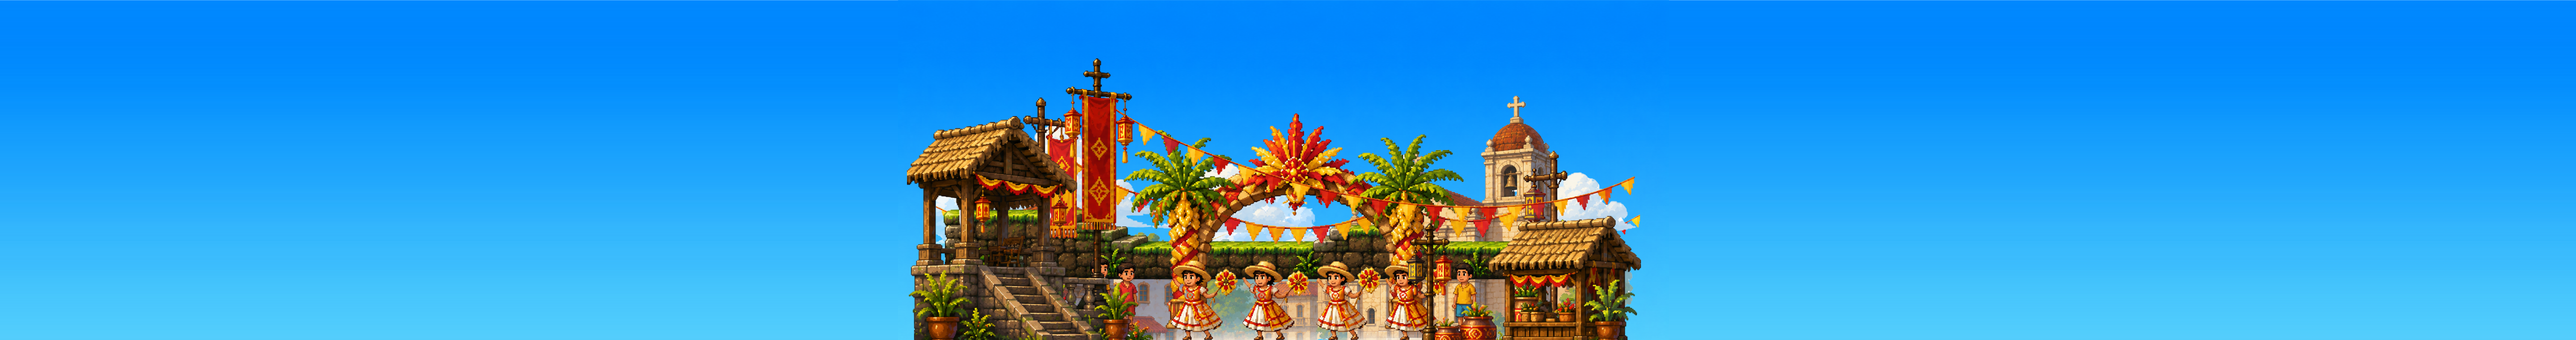
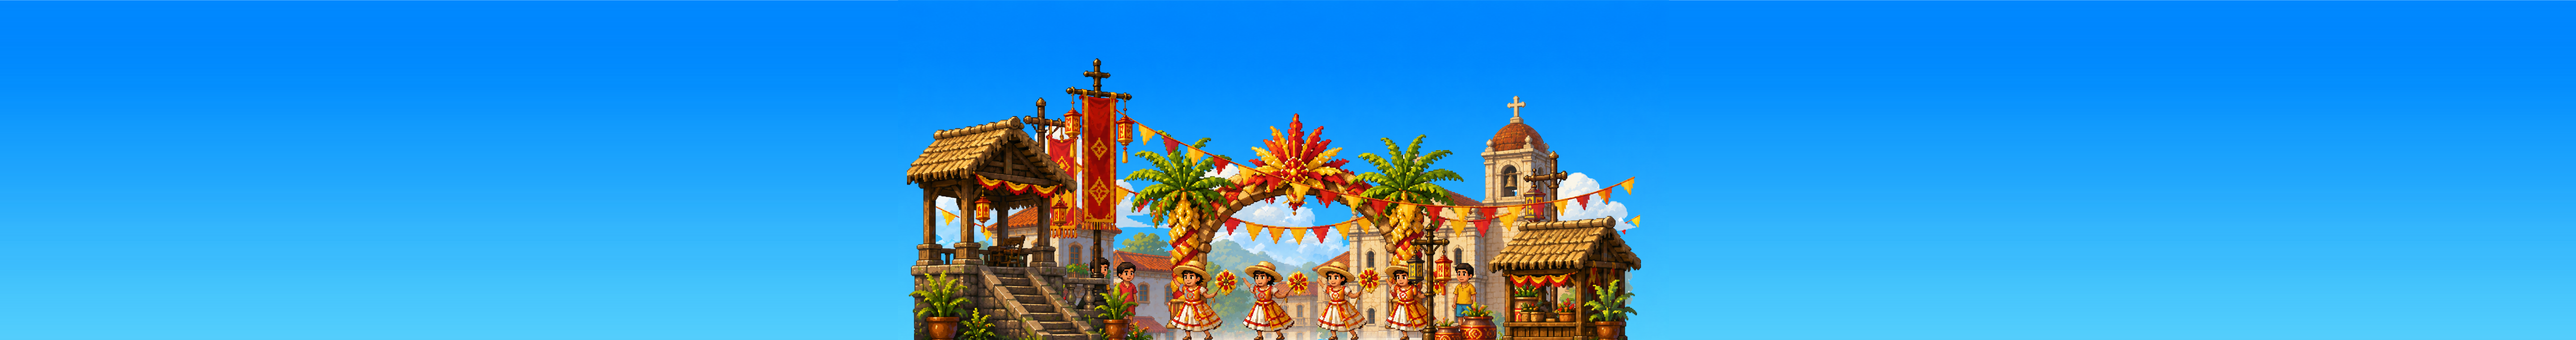
Stop compositing ground.png, which was never this level's ground
"Why is there a dirt platform at the back" -- because there is, and it is called
`ground.png`. Opened on its own it is not ground at all: a mossy rubble terrace with a
grass top and a flight of steps, plate rows 474 to 680. Every one of those rows is ABOVE
the walk line at 816, so in the composite the thing runs across the picture at roughly
the apo's head height. It is the artist's own side-scrolling platform, drawn for a game
where the player walks along the TOP of it -- which is a perfectly good plate and simply
not the one this level stands on. Cut at the dancers' feet, all it can be is a slab of
stone with grass on it hanging in mid-air behind everybody.

Dropped from the layer list, `mg_church` shows through: the church and its belfry, the
colonial houses, the hills and the trees. Its own bottom edge is row 839, BELOW the walk
line, so there is no hole to fill -- ninety-two per cent of every row in the band is
covered by the town, the people and the huts, and the sky that shows between them is sky
that ought to show between buildings.

The four door tones were re-sampled against the new plate, since what stands behind each
door changed when the terrace left.

AND THE REASON THIS TOOK A SECOND LOOK: a `--script` run does not reimport a texture
whose source changed. `.godot/imported/*.ctex` is used exactly as it stands, so three
renders in a row were read as evidence about a backdrop that had already been rebuilt
[…]

Changed region(s): [[0.3438, 0.6045, 0.5938, 0.816]]

diff --git a/tools/build_plaza.py b/tools/build_plaza.py
@@ -43,7 +43,22 @@ ROOT = Path(__file__).resolve().parent.parent
 SRC = ROOT / "game" / "assets" / "Level2"
 
 # Back to front. The order they compose in.
-LAYERS = ["bg_sky", "bg_clouds", "mg_church", "ground", "mg_people", "fg_huts"]
+#
+# ⚠ `ground` IS DELIBERATELY NOT IN THIS LIST, and it is not an oversight.
+#
+# Open `ground.png` on its own and it is not ground at all: it is a mossy rubble terrace with
+# a grass top and a flight of steps, rows 474..680 of the plate -- ABOVE the walk line, which
+# means that in the composite it runs across the picture at roughly the apo's head height.
+# It is the artist's own side-scrolling platform, drawn for a game where the player walks
+# along the TOP of it. Cut at the dancers' feet, as this level is, it is a band of stone with
+# grass on it hanging in mid-air behind everybody -- "why is there a dirt platform at the
+# back", and the answer is that it is a platform, just not this level's.
+#
+# Dropped, `mg_church` shows through: the church, the belfry, the colonial houses, the hills
+# and the trees, whose own bottom edge is row 839 -- BELOW the walk line. So there is no hole
+# to fill. Ninety-two per cent of every row in the band is covered by the town, the people and
+# the huts; what little sky shows between them is sky that ought to show between buildings.
+LAYERS = ["bg_sky", "bg_clouds", "mg_church", "mg_people", "fg_huts"]
 
 ## How many plate-widths wide the output is. The painting sits in the middle and its own sky
 ## runs out either side, so the camera can lead the player to the walls without running off

diff --git a/AGENTS.md b/AGENTS.md
@@ -175,6 +175,20 @@ follow from standing a level in front of a painting rather than on top of a tile
   `checkpoint_moss` meta on an ancestor: **set it in the .tscn, never as a static**, or the
   warm plaza stone follows the player back to Level 1's terrace.
 
+⚠ **`ground.png` IS NOT THE GROUND, and it is deliberately not composited.** Open it on its
+own: it is a mossy rubble terrace with a grass top and a flight of steps, plate rows 474..680
+-- ABOVE the walk line, so in the composite it runs across the picture at the apo's head
+height. It is the artist's own side-scrolling platform, for a game where the player walks
+along the TOP of it, and cut at the dancers' feet it is a slab of dirt hanging in mid-air
+behind everybody. Dropped, `mg_church` shows through -- church, belfry, colonial houses,
+hills, trees -- and its own bottom edge is row 839, BELOW the walk line, so there is no hole.
+
+⚠ **REIMPORT AFTER REGENERATING AN ASSET, or you are looking at the last one.** `godot --path
+game --script res://tests/run_visual_*.gd` does NOT refresh a texture whose source changed;
+`.godot/imported/*.ctex` is used as it stands. Three renders in a row were read as evidence
+about a backdrop that had already been rebuilt twice. Run `godot --headless --path game
+--import` first, or check the .ctex mtime against the .png.
+
 ⚠ **The dancers are IN the art again.** `DancerGroup2D._draw()` is `pass`; it is the logic
 only. The composite will not give them up (a bbox cut takes the palm trunks behind two of
 them; a colour mask leaves the hats, hands, fans and shoes), so Problem 1's scare is

diff --git a/LEVEL_2.md b/LEVEL_2.md
@@ -134,6 +134,13 @@ job, in the same way twice:
 Three things had to change once the plaza was a painting again, and all three are the same
 lesson: **a level standing in front of a picture cannot bring its own palette.**
 
+* **`ground.png` is not the ground.** It is a mossy rubble terrace with a grass top, plate
+  rows 474..680, which in the composite runs across the picture at head height -- the artist's
+  own platform, for a game where you walk along the top of it. Cut at the dancers' feet it was
+  a slab of dirt hanging behind everybody. It is not composited; `mg_church` shows through and
+  its bottom edge is below the walk line, so nothing is missing.
+* **Reimport after regenerating an asset.** A `--script` run uses `.godot/imported` as it
+  stands, and three renders were read as evidence about a backdrop that had already changed.
 * **The camera needed a floor of its own.** It rests at the bottom of `world_bounds`, which
   has to be well under the plaza so a fall is caught -- so it showed three hundred units of
   retaining wall. `WorldCameraController.world_bottom_y` (Piyesta: 722) stops it, and the
